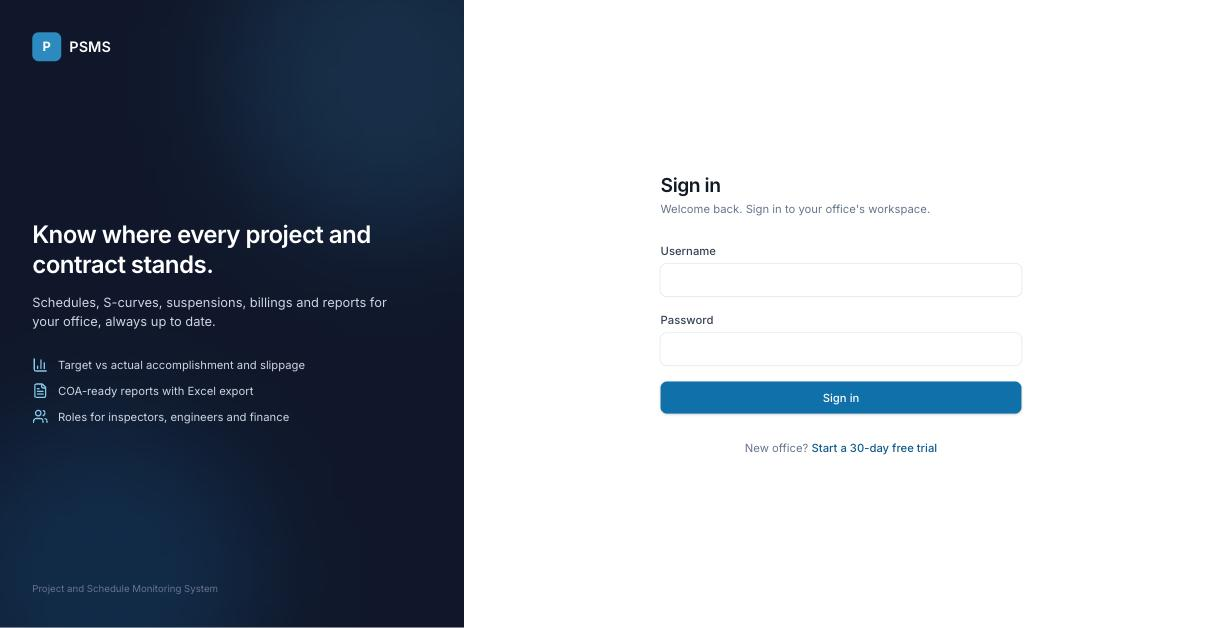
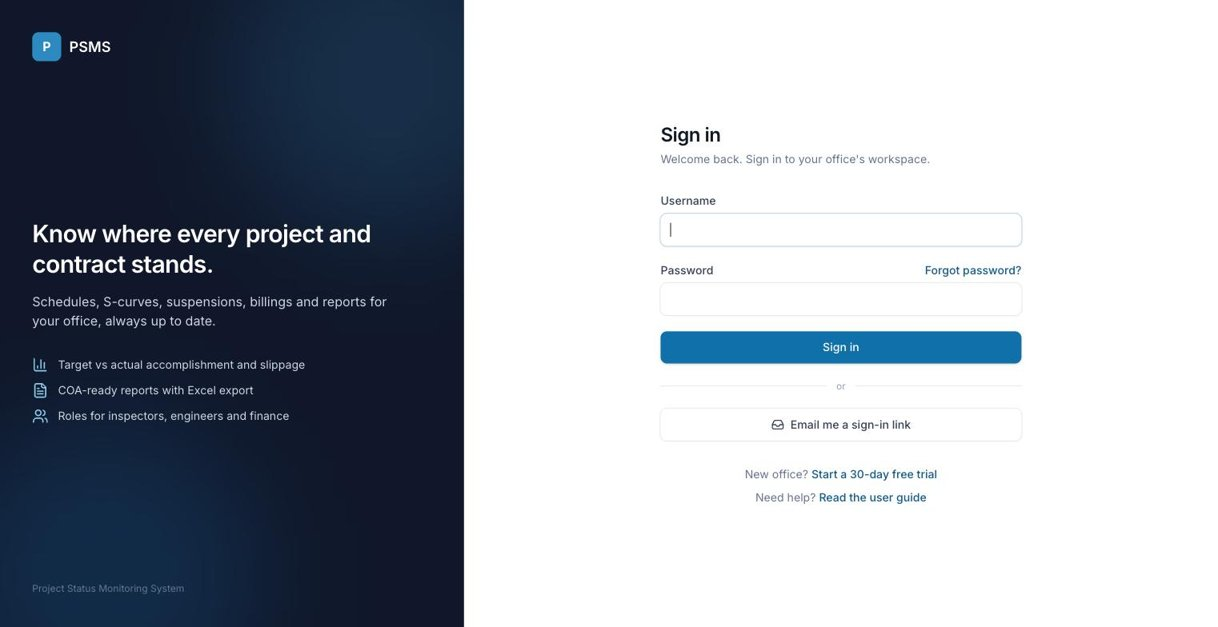
Document signing in with an email link

diff --git a/docs/faq.md b/docs/faq.md
@@ -6,6 +6,9 @@ At **[app.psms.ph](https://app.psms.ph)**. The old address, psms.ph, forwards th
 
 ## I forgot my password.
 
+You can sign in right away with **Email me a sign-in link** on the sign-in page, then set a new password from the
+menu under your name → **Change password**. Or reset it directly:
+
 Click **Forgot password?** on the [sign-in page](https://app.psms.ph/login/), enter the email on your PSMS account and
 follow the link we send you (it works for 24 hours). If the email doesn't arrive, check your spam folder.
 
@@ -56,3 +59,8 @@ Each office's data is private to it. Only contractors and the forum are shared b
 
 The subscription's renewal date has passed. Nothing has been deleted; contact the PSMS administrator to renew and
 access returns immediately. See [Subscription](/guide/office#subscription).
+
+## The sign-in link says it doesn't work anymore.
+
+Sign-in links expire after 15 minutes and work only once. They also stop working as soon as you sign in (with any
+link or your password) or change your password. Request a new link and open the **most recent** email.

diff --git a/docs/guide/basics.md b/docs/guide/basics.md
@@ -7,6 +7,10 @@ Account Holder gave you.
 
 ![The sign-in page](/screens/sign-in.jpg)
 
+- **Sign in without a password:** click **Email me a sign-in link** and enter the email on your PSMS account. Open
+  the link in the email within 15 minutes and click **Continue**. Each link works once. If several accounts share your
+  email, you'll get one link per account, each naming its username. (PSMS administrator accounts must use their
+  password.)
 - **Forgot your password?** Click **Forgot password?** on the sign-in page and enter the email on your PSMS account.
   You'll get a link to set a new password; it works once, within 24 hours. The email names the account it's for, so if
   several accounts share your email you'll get one per account. No email on your account? Ask your office's Account

diff --git a/docs/whats-new.md b/docs/whats-new.md
@@ -28,6 +28,7 @@ See [Roles and permissions](/guide/roles).
 
 ## New
 
+- **Sign in with an email link:** no password needed; PSMS emails you a one-time link.
 - **Forgot password:** reset your own password by email from the sign-in page; no need to ask your Account Holder.
 - **[Office location and contact details](/guide/office#location-and-contact):** every office now records its address,
   phone, email and contact person. Account Holders of existing offices are asked to fill them in once.
